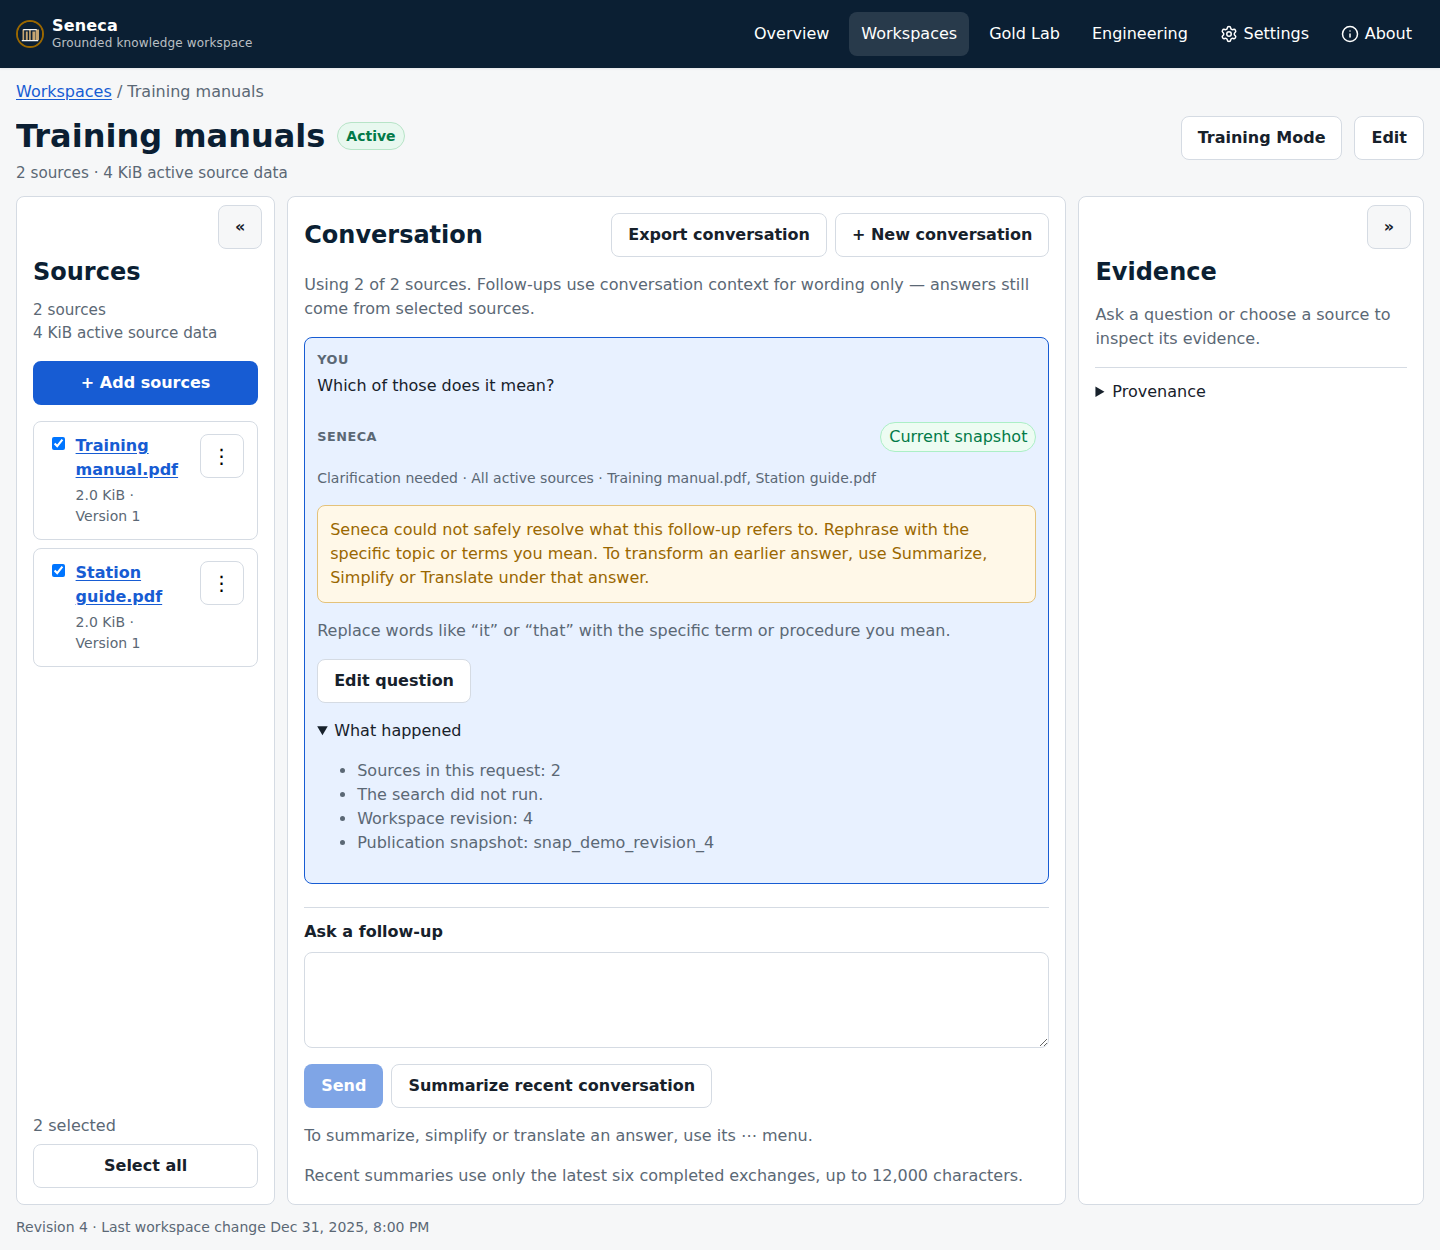
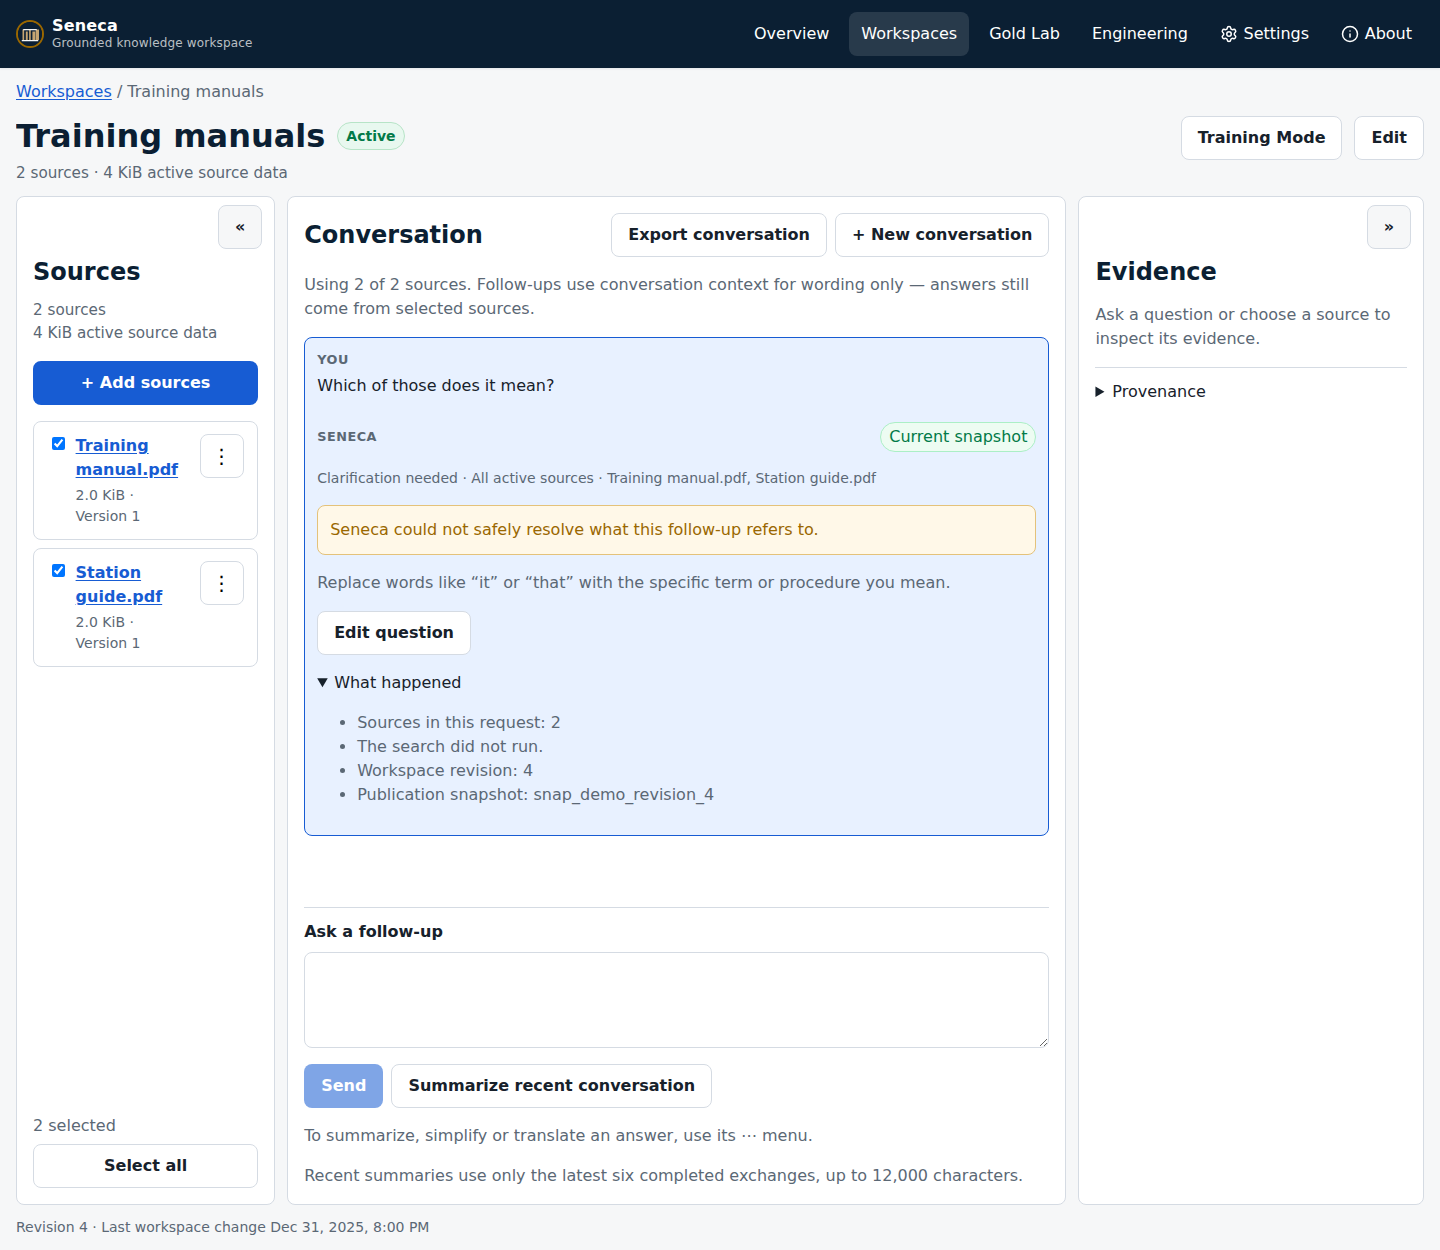
Refine KM-01 source guidance and verify lunch question

Changed region(s): [[0.2188, 0.4056, 0.6875, 0.6864], [0.375, 0.4992, 0.6562, 0.5304]]

diff --git a/ui/src/test/slice16d_b3_conversation.test.tsx b/ui/src/test/slice16d_b3_conversation.test.tsx
@@ -355,8 +355,8 @@ describe("Slice 16D-B3 conversation state helpers", () => {
 
 describe("Slice 16D-B3 conversation workspace UI", () => {
   it.each([
-    ["no_evidence", "Try an exact term", "Evidence units in the assembled context: 0"],
-    ["conflicting_evidence", "Name the manual and edition", "Answer generation was attempted."],
+    ["no_evidence", "Try using a term or title", "Evidence units in the assembled context: 0"],
+    ["conflicting_evidence", "Name the source or version", "Answer generation was attempted."],
     ["ambiguous_request", "with the specific term", "The search did not run."],
     ["generation_timeout", "Check the configured generation service", "Error code: generation_timeout"],
     ["insufficient_support", "Ask about one concept", "Detailed retrieval counts are unavailable"],
@@ -417,6 +417,71 @@ describe("Slice 16D-B3 conversation workspace UI", () => {
       expect(composer).toHaveValue(question);
       expect(composer).toHaveFocus();
       expect(posts).toBe(1);
+    } finally {
+      mock.restore();
+    }
+  });
+
+  it("guides the original lunch question using the bound firefighting source selection", async () => {
+    const user = userEvent.setup();
+    const question = "Give me a nice recipe for a children's lunch.";
+    const selected = "Incident command guide.pdf";
+    const unselected = "Fireground training notes.pdf";
+    const mock = installFetchMock((call) => {
+      if (call.url === "/health/ready") return jsonResponse({ status: "ready" });
+      if (call.url === "/v1/workspaces/ws_1") {
+        return jsonResponse(workspace({
+          workspace_id: "ws_1", title: "Firefighting training", revision: 5, source_count: 2,
+        }));
+      }
+      if (call.url === "/v1/workspaces/ws_1/sources") {
+        return jsonResponse({
+          workspace_id: "ws_1", revision: 5,
+          sources: [
+            source({ source_id: "src_1", display_name: selected }),
+            source({ source_id: "src_2", display_name: unselected }),
+          ],
+        });
+      }
+      if (call.url === "/v1/workspaces/ws_1/conversation/turn" && call.method === "POST") {
+        return jsonResponse(turnResponse({
+          status: "insufficient_evidence",
+          abstention_reason: "insufficient_support",
+          question,
+          retrieval_question: question,
+          answer: null,
+          answer_blocks: [],
+          citations: [],
+          recovery_diagnostics: { source_count: 1, evidence_unit_count: 2, generator_invoked: false },
+        }));
+      }
+      return errorResponse("not_found", "x", 404);
+    });
+
+    try {
+      renderApp("/workspaces/ws_1");
+      await screen.findByRole("heading", { name: "Conversation" });
+      const toggle = screen.getByRole("checkbox", { name: new RegExp(unselected) });
+      await user.click(toggle);
+      const composer = screen.getByLabelText("Ask a follow-up");
+      await user.type(composer, question);
+      await user.click(screen.getByRole("button", { name: "Send" }));
+      const turn = (await screen.findByText(question)).closest("article")!;
+      const view = within(turn);
+      expect(await view.findByText(/available evidence was not strong enough/)).toBeVisible();
+      expect(view.getByText("Not enough evidence · Selected sources · " + selected)).toBeVisible();
+      expect(view.getByText(/review that selection.*add it here/i)).toBeVisible();
+      expect(view.getByRole("link", { name: "switch workspaces" })).toHaveAttribute("href", "/workspaces");
+      expect(view.queryByText(/appears to focus|rejected|no recipes/i)).not.toBeInTheDocument();
+      await user.click(view.getByText("What happened"));
+      expect(view.getByText("Sources in this request: 1")).toBeVisible();
+      expect(view.getByText("Evidence units in the assembled context: 2")).toBeVisible();
+      expect(view.getByText("Answer generation did not run.")).toBeVisible();
+      await user.click(view.getByRole("button", { name: "Edit question" }));
+      expect(composer).toHaveValue(question);
+      const posts = mock.calls.filter((call) => call.method === "POST");
+      expect(posts).toHaveLength(1);
+      expect(JSON.parse(String(posts[0].body))).toMatchObject({ question, source_ids: ["src_1"] });
     } finally {
       mock.restore();
     }

diff --git a/ui/src/features/ask/ConversationRecovery.tsx b/ui/src/features/ask/ConversationRecovery.tsx
@@ -1,3 +1,4 @@
+import { Link } from "react-router-dom";
 import { Button } from "../../components/Button";
 import type {
   ConversationHistoryEntry,
@@ -11,12 +12,10 @@ type RecoveryProps = {
 
 function reformulation(reason: string | null): string {
   switch (reason) {
-    case "no_evidence":
-      return "Try an exact term or section title from the manual. If another source covers the topic, select it before asking again.";
     case "insufficient_support":
-      return "Ask about one concept or step at a time. Name the manual, edition, or section if you know it.";
+      return "Ask about one concept or step at a time. Name the source or section if you know it.";
     case "conflicting_evidence":
-      return "Name the manual and edition that applies, or ask how the selected manuals differ on this point.";
+      return "Name the source or version you want to use, or ask how the selected sources differ on this point.";
     case "ambiguous_request":
       return "Replace words like “it” or “that” with the specific term or procedure you mean.";
     default:
@@ -36,9 +35,29 @@ export function AbstentionRecovery({
   const response = entry.response;
   const diagnostics = response.recovery_diagnostics;
   const isClarification = response.status === "clarification_required";
+  const needsSourceReview =
+    response.abstention_reason === "no_evidence" ||
+    response.abstention_reason === "insufficient_support";
   return (
     <div className="stack conversation-recovery">
-      <p className="muted">{reformulation(response.abstention_reason)}</p>
+      {needsSourceReview ? (
+        <>
+          <p className="muted">
+            {response.abstention_reason === "no_evidence"
+              ? "Try using a term or title from a source you expect to cover the topic."
+              : reformulation(response.abstention_reason)}
+          </p>
+          <p className="muted">
+            {entry.selectionMode === "subset"
+              ? "This turn searched only the sources you selected. Review that selection and include any other relevant sources."
+              : "Review the sources used for this turn and check whether they cover what you asked."}
+            {" "}If you have a source on the topic, add it here or{" "}
+            <Link to="/workspaces">switch workspaces</Link> if you keep it elsewhere.
+          </p>
+        </>
+      ) : (
+        <p className="muted">{reformulation(response.abstention_reason)}</p>
+      )}
       <div>
         <Button
           type="button"

diff --git a/ui/src/features/ask/abstentionCopy.ts b/ui/src/features/ask/abstentionCopy.ts
@@ -9,7 +9,7 @@ export function abstentionCopy(reason: string | null | undefined): string {
     case "model_declined":
       return "Seneca did not provide an answer from the available evidence.";
     case "ambiguous_request":
-      return "Seneca could not safely resolve what this follow-up refers to. Rephrase with the specific topic or terms you mean. To transform an earlier answer, use Summarize, Simplify or Translate under that answer.";
+      return "Seneca could not safely resolve what this follow-up refers to.";
     case "conversation_response_truncated":
       return "This transformation was cut off, so Seneca discarded it. Try a shorter target answer.";
     case "conversation_response_unavailable":

diff --git a/docs/evidence/km-01/README.md b/docs/evidence/km-01/README.md
@@ -37,3 +37,18 @@ The clarification regression confirms no grounded query runs.
 - ESLint, TypeScript, Ruff on production Python paths, and Git whitespace
   checks passed. Ruff flags five unused fixture bindings in the backend
   test file on both the accepted base and the candidate.
+
+## SOL UX refinement
+
+In a synthetic workspace titled **Firefighting training**, Rich's original
+question, “Give me a nice recipe for a children's lunch.”, was submitted
+with only the incident command guide selected. The fixture returned
+`insufficient_support`. The UI displayed the recorded selection and offered
+to review it, add a relevant source, or switch workspaces if the relevant
+source is elsewhere. It did not infer a workspace classification or claim
+to know whether every document contains recipes.
+
+The focused workspace conversation, Training Mode, and export regression
+files passed **60 tests** after the refinement. Chromium exercised the five
+cases with one POST apiece and checked that editing sent no additional
+request. [Lunch question screenshot](lunch-question.png)
